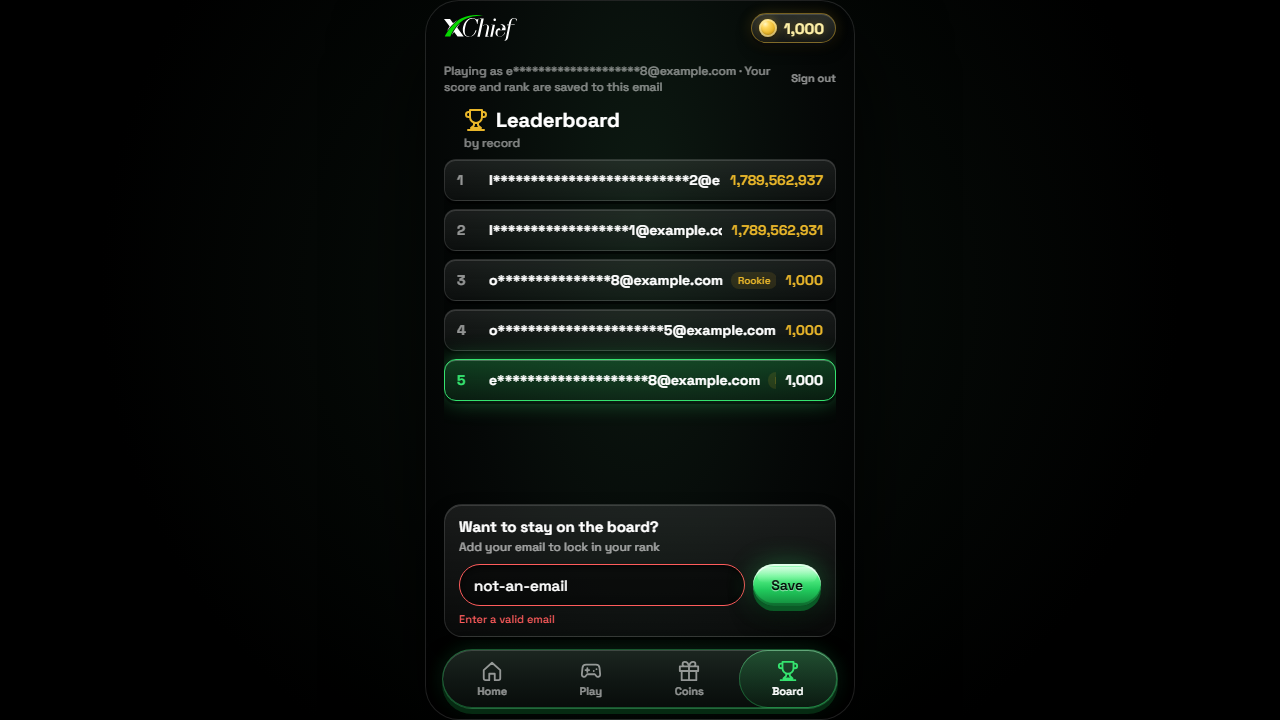
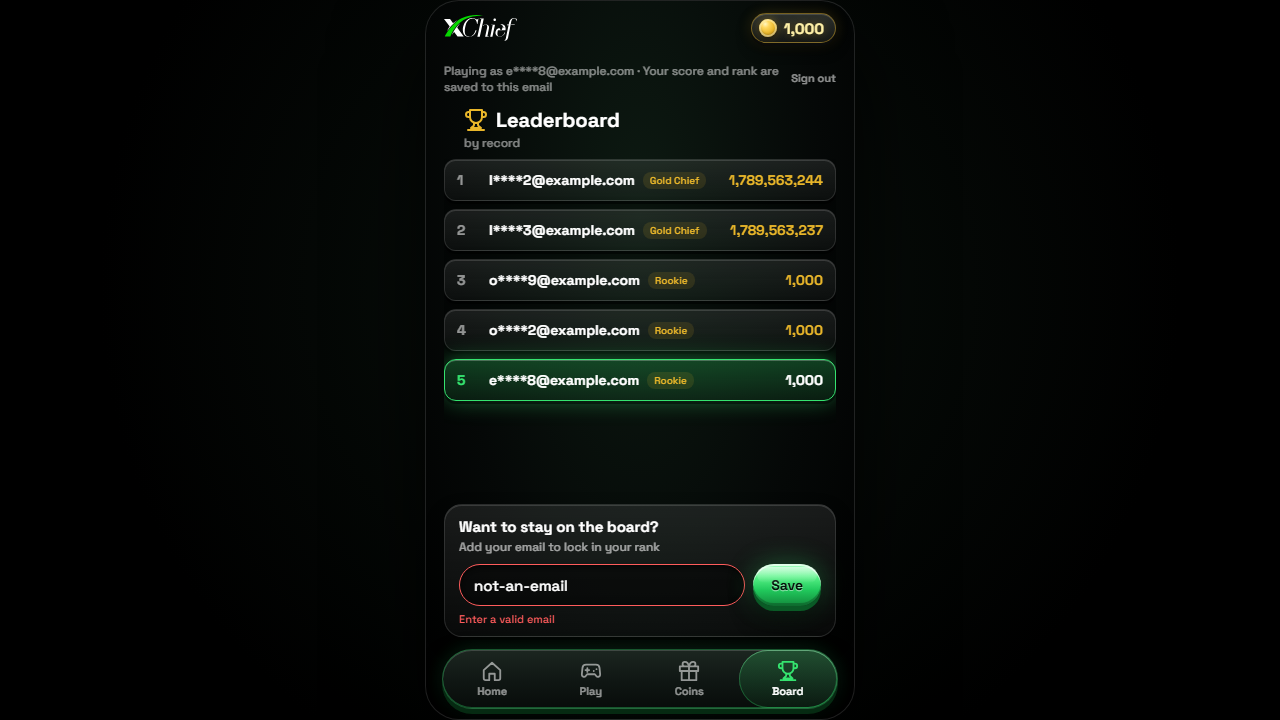
Merge follow-ups: mask capped at four asterisks, obsolete skipped OTP E2E removed, kiosk test helper retires same-label duplicates

diff --git a/tests/e2e/player-promises.spec.js b/tests/e2e/player-promises.spec.js
@@ -204,11 +204,4 @@ test.describe('player-visible promises', () => {
         : 'no email/signup prompt may appear in kiosk mode (no win was observed, so this is the weak pass)',
     ).toHaveCount(0);
   });
-
-  test('4. the OTP code input accepts an 8-digit code', async () => {
-    // No code-entry screen exists in the built client yet: SignupForm.jsx collects
-    // name/email/phone and LeadCapture.jsx a single email field; neither renders an
-    // 8-digit OTP input, so there is nothing to drive from the UI.
-    test.skip(true, 'no OTP code-entry screen exists in the client yet (signup is a name/email/phone lead form)');
-  });
 });

diff --git a/docs/layers.md b/docs/layers.md
@@ -44,7 +44,7 @@ Order: C1 -> C2 (the booth), then C3 -> C3a -> C4 -> C5 -> C6 -> C7 (the web), D
 
 **Design fidelity rule for every client ticket:** new screens and states reuse the existing components, classes, colour tokens and typography only - no new colours, fonts or layout systems; every ticket attaches screenshots of each new screen next to an existing one for review.
 
-Product defaults taken (say if wrong): kiosk starts each visitor at 1000 coins with the same levers as web; WIN modal 30 s; EXIT modal 20 s; abandon countdown shows after 30 s idle and flushes at 60 s (matching the server's reset); masked email keeps the first and last character of the local part and the full domain.
+Product defaults taken (say if wrong): kiosk starts each visitor at 1000 coins with the same levers as web; WIN modal 30 s; EXIT modal 20 s; abandon countdown shows after 30 s idle and flushes at 60 s (matching the server's reset); masked email keeps the first and last character of the local part and the full domain, with three to four asterisks between (capped so a long address cannot push the score off a row).
 
 ---
 
